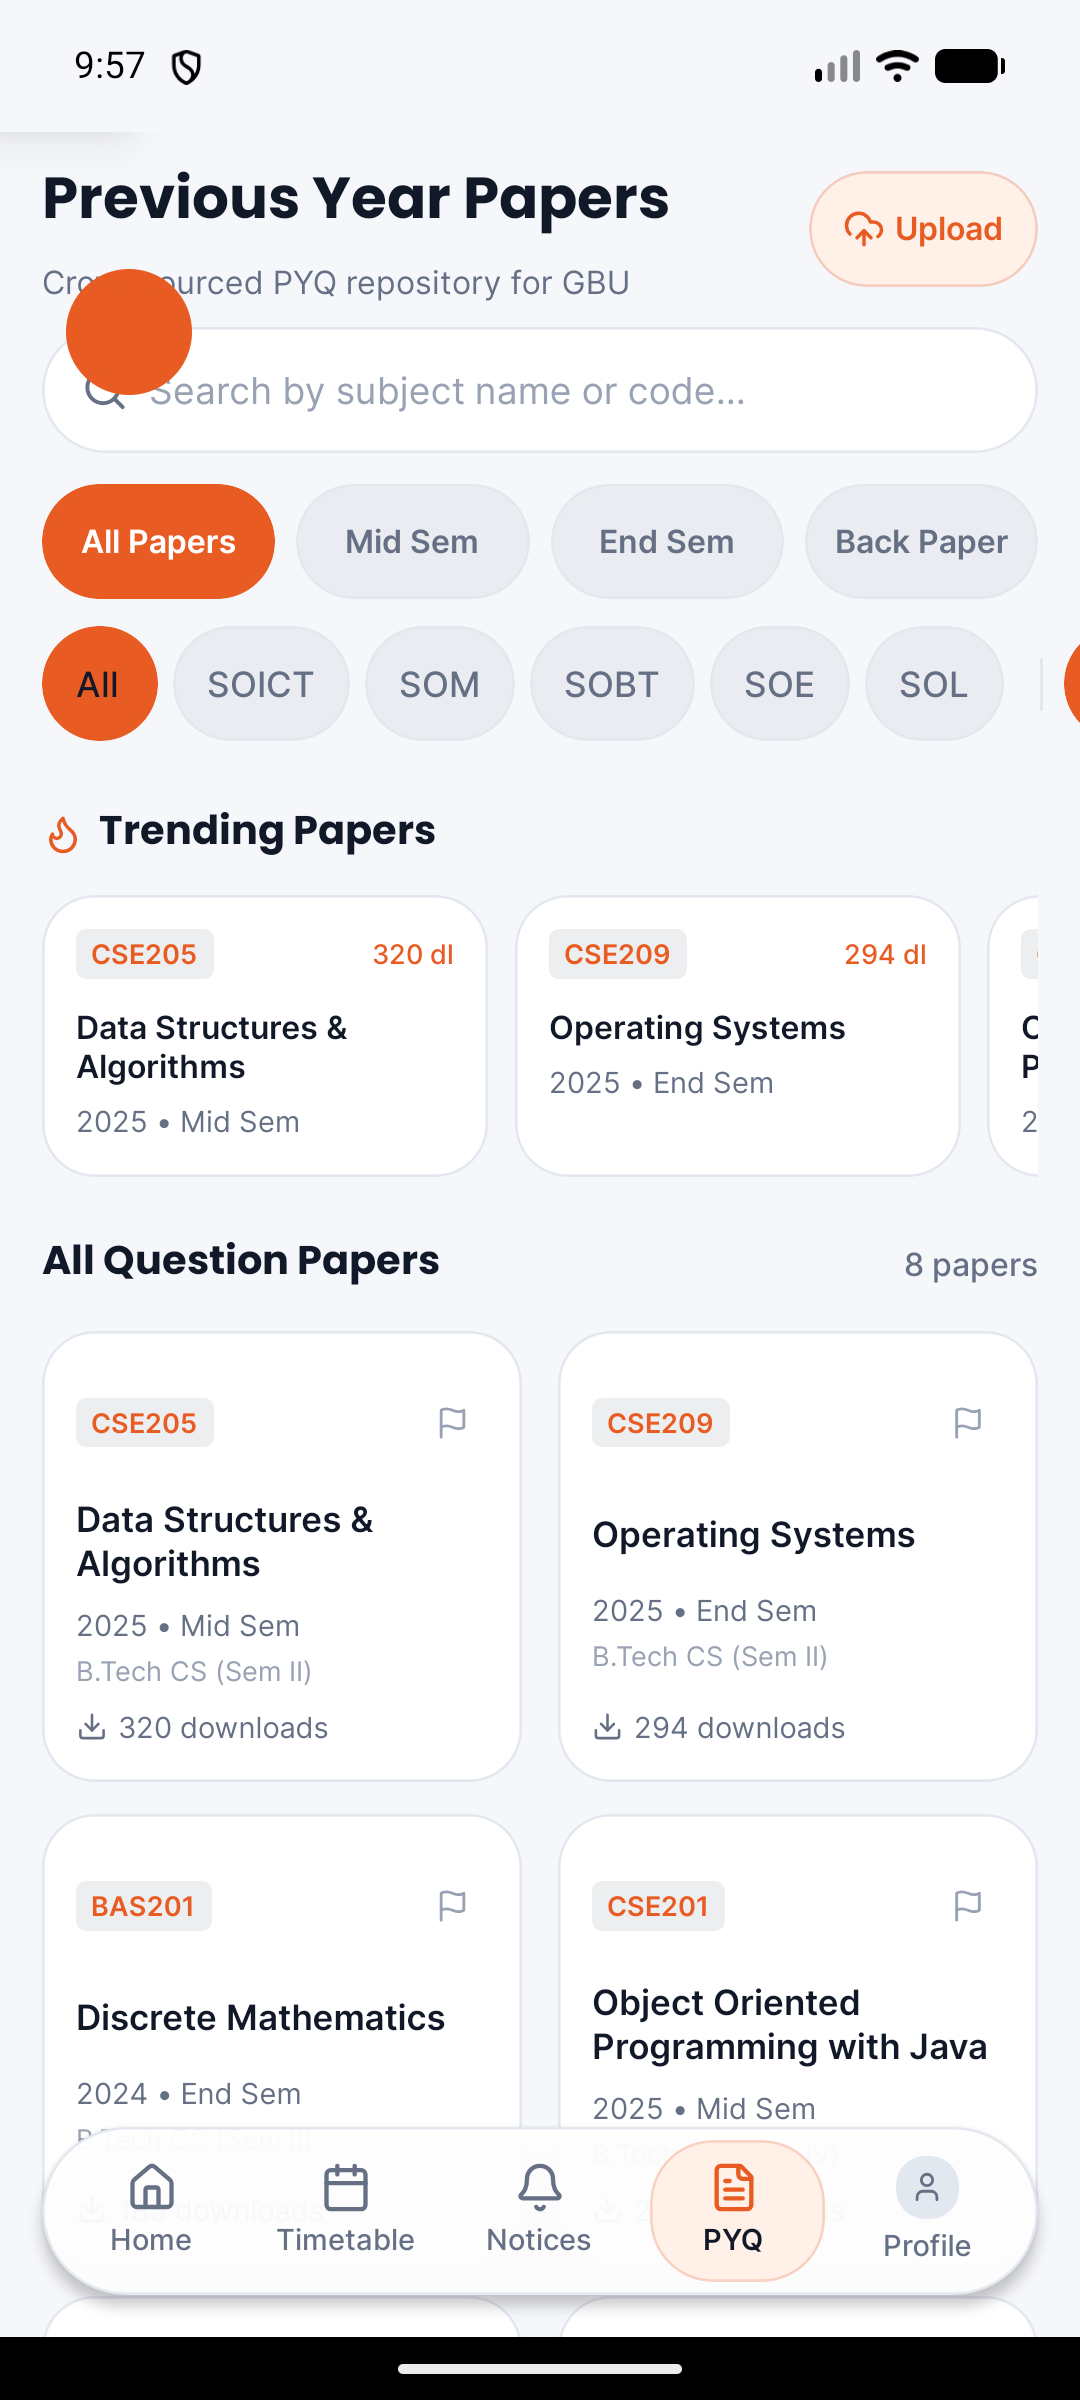
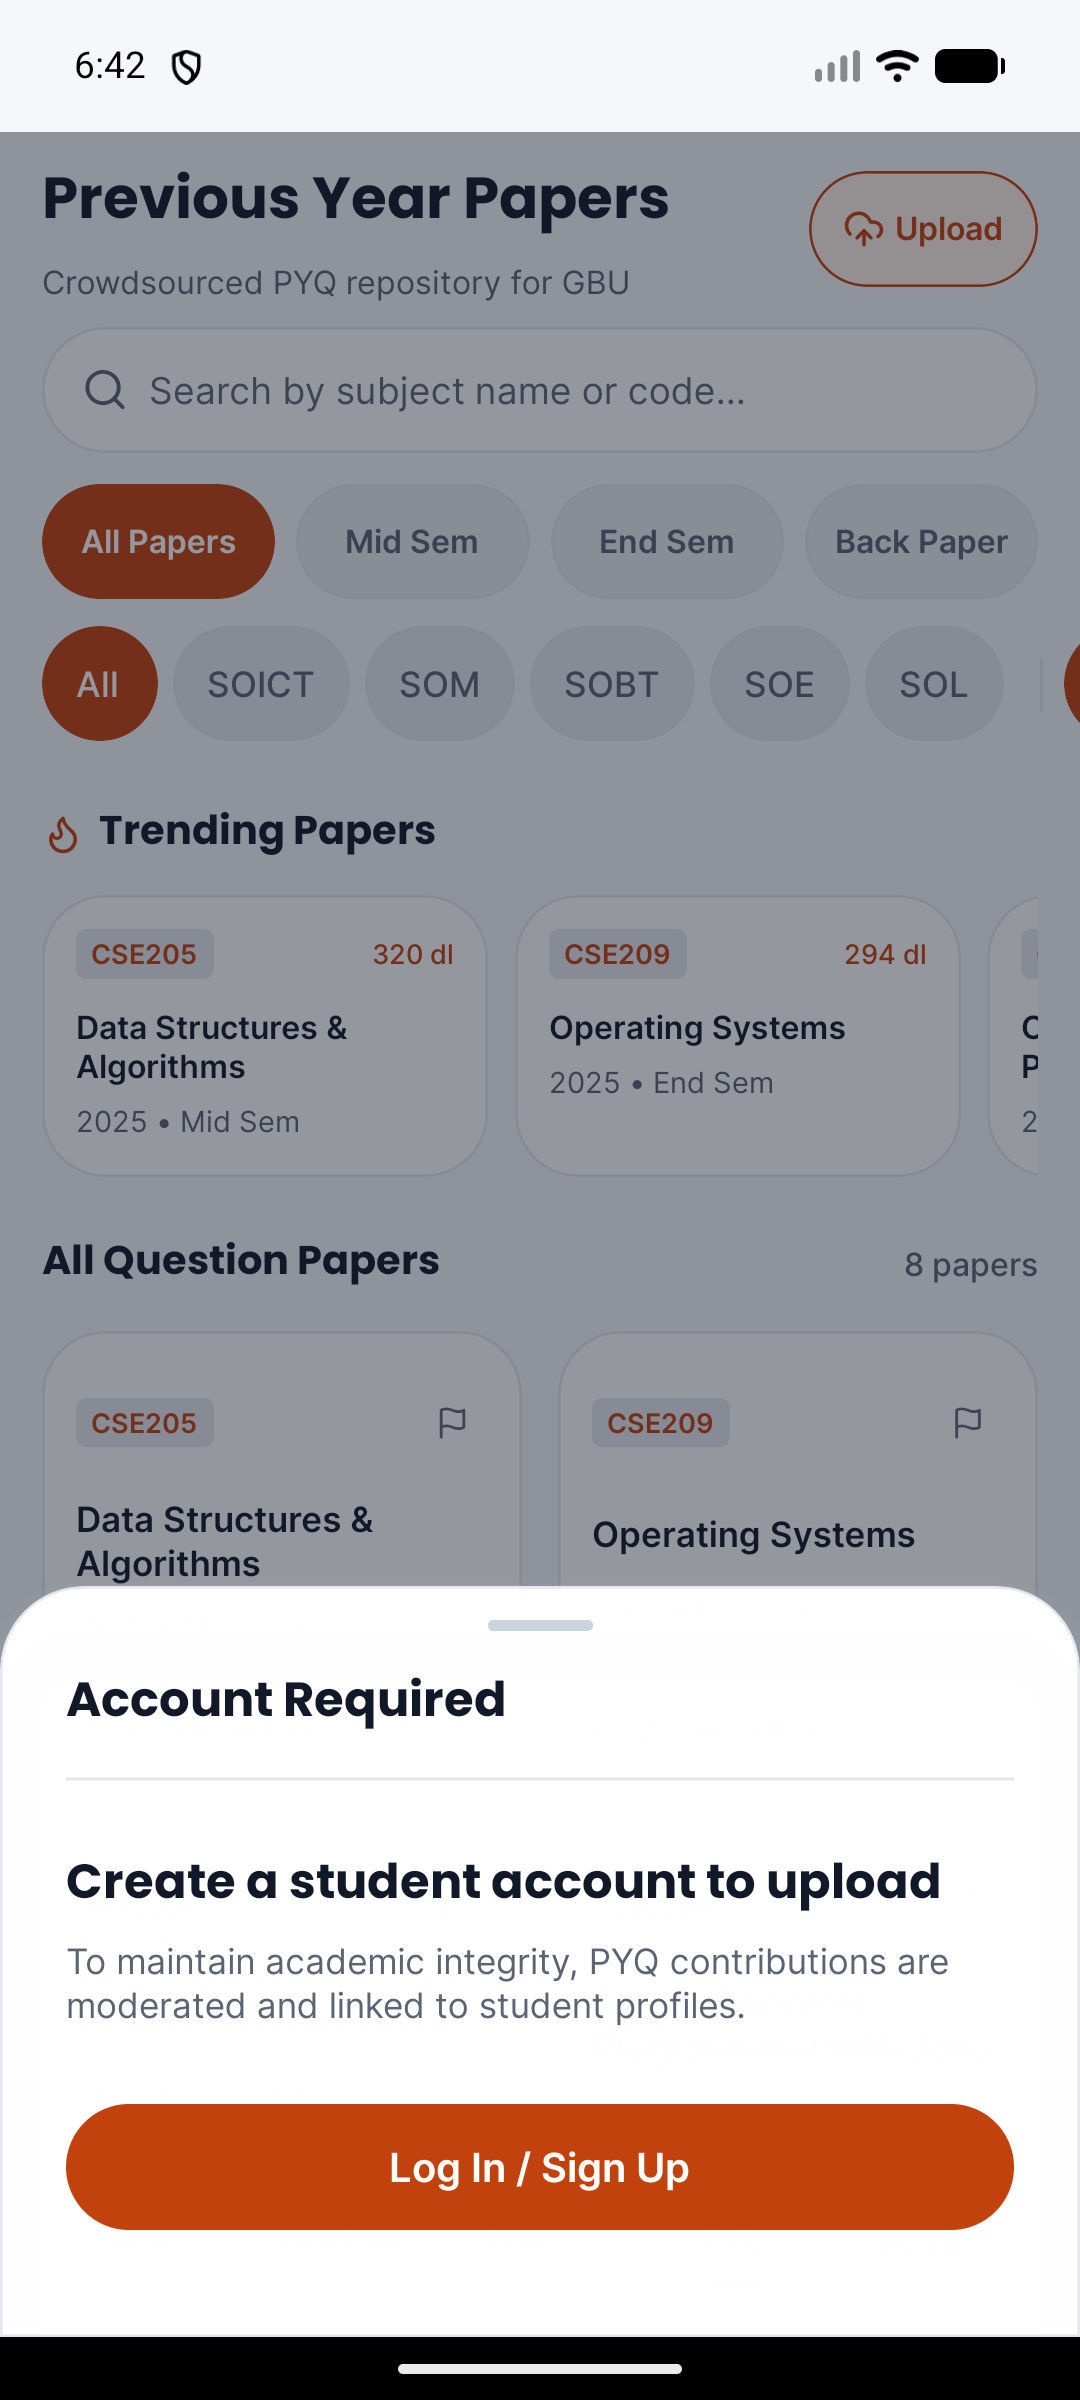
fix: let the shared sheets paint on Android
A React Native Modal on Android measures its content without constraints,
so a root overlay with flex: 1 resolves to 0x0: the dialog window exists,
is visible and has drawn, yet nothing reaches the screen.  The shared
BottomSheet and the timetable-change modal now size their overlays with
Dimensions.get('window') instead, the same fix the class sheet got in the
previous commit.

This was why the PYQ upload sheet, the guest gate and the notice sheet
looked broken.  tools/diagnose_modal.py measures the dim backdrop so a
regression shows up as a number rather than a screenshot.

diff --git a/src/components/timetable/TimetableChangeModal.tsx b/src/components/timetable/TimetableChangeModal.tsx
@@ -1,5 +1,5 @@
 import React from 'react';
-import { StyleSheet, View, Text, Modal, Pressable } from 'react-native';
+import { StyleSheet, View, Text, Modal, Pressable, Dimensions } from 'react-native';
 import Animated, {
   FadeIn,
   FadeOut,
@@ -10,6 +10,8 @@ import { Ionicons } from '@expo/vector-icons';
 import { router } from 'expo-router';
 import { useAppTheme } from '../../lib/ThemeContext';
 import { radius, spacing } from '../../lib/theme';
+
+const { width: SCREEN_WIDTH, height: SCREEN_HEIGHT } = Dimensions.get('window');
 
 export interface TimetableChangeModalProps {
   visible: boolean;
@@ -145,7 +147,11 @@ export const TimetableChangeModal: React.FC<TimetableChangeModalProps> = ({
 
 const styles = StyleSheet.create({
   backdrop: {
-    flex: 1,
+    // A React Native Modal on Android measures its content without
+    // constraints, so `flex: 1` resolves to zero and the card paints
+    // nothing. The backdrop therefore carries explicit window dimensions.
+    width: SCREEN_WIDTH,
+    height: SCREEN_HEIGHT,
     backgroundColor: 'rgba(0, 0, 0, 0.45)',
     justifyContent: 'center',
     alignItems: 'center',

diff --git a/src/components/ui/BottomSheet.tsx b/src/components/ui/BottomSheet.tsx
@@ -26,7 +26,7 @@ export interface BottomSheetProps {
   height?: number | string;
 }
 
-const { height: SCREEN_HEIGHT } = Dimensions.get('window');
+const { width: SCREEN_WIDTH, height: SCREEN_HEIGHT } = Dimensions.get('window');
 
 export const BottomSheet: React.FC<BottomSheetProps> = ({
   visible,
@@ -101,7 +101,11 @@ export const BottomSheet: React.FC<BottomSheetProps> = ({
 
 const styles = StyleSheet.create({
   overlay: {
-    flex: 1,
+    // A React Native Modal on Android measures its content without
+    // constraints, so `flex: 1` resolves to zero and the sheet paints
+    // nothing. The overlay therefore carries explicit window dimensions.
+    width: SCREEN_WIDTH,
+    height: SCREEN_HEIGHT,
     justifyContent: 'flex-end',
   },
   backdrop: {

diff --git a/tools/diagnose_modal.py b/tools/diagnose_modal.py
@@ -1,0 +1,162 @@
+"""
+Checks whether the app's modals actually reach the screen on Android.
+
+A transparent React Native Modal paints a dim backdrop over the whole window.
+If the modal is not composited on top, the mean brightness of the upper part
+of the screen stays at the un-dimmed level. This script measures that for the
+class detail sheet and the notice sheet and prints the window stack.
+
+    python tools/diagnose_modal.py
+"""
+import os
+import re
+import subprocess
+import time
+
+from PIL import Image
+
+SERIAL = os.environ.get('GBU_EMULATOR', 'emulator-5554')
+PACKAGE = 'in.gbu.one'
+HERE = os.path.dirname(os.path.abspath(__file__))
+OUT = os.path.join(HERE, '..', 'docs', 'qa', 'emulator')
+DUMP = os.path.join(HERE, '..', 'qa_ui.xml')
+
+
+def adb(*args):
+    return subprocess.run(['adb', '-s', SERIAL, *args], capture_output=True, text=True)
+
+
+def dump():
+    adb('shell', 'uiautomator', 'dump', '/sdcard/qa.xml')
+    adb('pull', '/sdcard/qa.xml', DUMP)
+    try:
+        with open(DUMP, encoding='utf-8') as f:
+            return f.read()
+    except OSError:
+        return ''
+
+
+def texts(xml):
+    return [m.group(1) for m in re.finditer(r'text="([^"]+)"', xml)]
+
+
+def find(xml, label, exact=False):
+    for m in re.finditer(
+        r'text="([^"]*)"[^>]*bounds="\[(\d+),(\d+)\]\[(\d+),(\d+)\]"', xml
+    ):
+        hit = m.group(1) == label if exact else label in m.group(1)
+        if hit:
+            x1, y1, x2, y2 = (int(m.group(i)) for i in range(2, 6))
+            return ((x1 + x2) // 2, (y1 + y2) // 2)
+    return None
+
+
+def tap_text(label, exact=False, settle=2.0, required=False):
+    pos = find(dump(), label, exact)
+    if pos is None:
+        if required:
+            print(f'  ! not found: {label}')
+        return False
+    adb('shell', 'input', 'tap', str(pos[0]), str(pos[1]))
+    time.sleep(settle)
+    return True
+
+
+def shot(name):
+    os.makedirs(OUT, exist_ok=True)
+    adb('shell', 'screencap', '-p', '/sdcard/qa.png')
+    path = os.path.join(OUT, f'{name}.png')
+    adb('pull', '/sdcard/qa.png', path)
+    return path
+
+
+def upper_brightness(path):
+    """Mean brightness of the upper half of the screen."""
+    im = Image.open(path).convert('L')
+    w, h = im.size
+    top = im.crop((0, 0, w, int(h * 0.5)))
+    pixels = list(top.getdata())
+    return sum(pixels) / len(pixels)
+
+
+def window_stack():
+    out = adb('shell', 'dumpsys', 'window', 'windows').stdout
+    rows = []
+    for block in out.split('Window #'):
+        if PACKAGE in block:
+            head = block.splitlines()[0].strip() if block.strip() else ''
+            m = re.search(r'Window\{[^}]*\}', block)
+            attrs = {
+                'name': (re.search(r'mSurface=(.*)', block) or [None, '?'])[1] if 'mSurface=' in block else '?',
+                'visible': 'mViewVisibility=0x0' in block or 'isVisible=true' in block,
+                'has_drawn': 'HAS_DRAWN' in block,
+                'frame': (re.search(r'Frames: parent=(\S+) display=(\S+) mCurrentFocus=(\S+)', block) or [None, '?'])[1]
+                if 'Frames:' in block else '?',
+            }
+            rows.append((m.group(0) if m else head[:60], attrs))
+    return rows
+
+
+def report(label, path):
+    b = upper_brightness(path)
+    dimmed = b < 180
+    print(f'  {label}: upper brightness {b:.0f} -> {"DIMMED (modal on top)" if dimmed else "NOT DIMMED"}')
+    return dimmed
+
+
+def main():
+    print('launching')
+    adb('shell', 'am', 'force-stop', PACKAGE)
+    adb('shell', 'monkey', '-p', PACKAGE, '-c', 'android.intent.category.LAUNCHER', '1')
+    time.sleep(12)
+
+    xml = dump()
+    pos = find(xml, "Don't Show Again")
+    if pos:
+        print('dismissing the 16 KB notice')
+        adb('shell', 'input', 'tap', str(pos[0]), str(pos[1]))
+        time.sleep(3)
+
+    print('timetable')
+    tap_text('Timetable', exact=True, settle=7.0)
+    base = shot('modal_baseline')
+    report('baseline', base)
+
+    xml = dump()
+    m = re.search(
+        r'text="(Scientific Computing with Python Lab|Data Structures Lab)"'
+        r'[^>]*bounds="\[(\d+),(\d+)\]\[(\d+),(\d+)\]"',
+        xml,
+    )
+    if m:
+        cx = (int(m.group(2)) + int(m.group(4))) // 2
+        cy = (int(m.group(3)) + int(m.group(5))) // 2
+        adb('shell', 'input', 'tap', str(cx), str(cy))
+        time.sleep(4)
+        p = shot('modal_class_sheet')
+        report('class sheet', p)
+        print('  window stack:')
+        for head, attrs in window_stack():
+            print('   ', head, attrs)
+    else:
+        print('  no class card found; screen text:', ' | '.join(texts(xml)[:20]))
+
+    print('notices')
+    adb('shell', 'input', 'keyevent', 'KEYCODE_BACK')
+    time.sleep(2)
+    tap_text('Notices', exact=True, settle=6.0)
+    xml = dump()
+    titles = [t for t in texts(xml) if len(t) > 25 and not t.startswith('http')]
+    if titles:
+        pos = find(xml, titles[0], exact=True)
+        if pos:
+            adb('shell', 'input', 'tap', str(pos[0]), str(pos[1]))
+            time.sleep(4)
+            p = shot('modal_notice_sheet')
+            report('notice sheet', p)
+    else:
+        print('  no notice card found')
+
+
+if __name__ == '__main__':
+    main()

diff --git a/docs/ARCHITECTURE.md b/docs/ARCHITECTURE.md
@@ -49,6 +49,7 @@ Timetable API (owner's) ◄── adapter, called from worker (public data) or a
 - **Classification:** rules first (keywords: fee, scholarship, date sheet, result, hostel, NCC, back paper, repeat, admit card, mid sem, convocation) then optional LLM fallback behind an env flag. Add unit tests with real notice titles.
 - **Deadline threads:** group notices by normalised subject (e.g. "fee submission monsoon 2026-27"); latest date wins; keep history list.
 - **Targeting:** each notice gets `audience` tags: school(s), programme(s), semester(s) when detectable, else `all`. Push goes only to matching users.
+- **Modals must carry explicit dimensions:** a React Native `Modal` on Android measures its content without constraints, so a root view with `flex: 1` resolves to 0x0 and the modal paints nothing (the dialog window exists, is visible and has drawn, yet the screen is unchanged). Every modal in this app therefore sizes its root overlay with `Dimensions.get('window')` instead of `flex: 1` — see `src/components/ui/BottomSheet.tsx`, `src/components/timetable/TimetableChangeModal.tsx` and the class sheet in `app/(tabs)/timetable.tsx`. `tools/diagnose_modal.py` measures the dim backdrop to catch a regression.
 
 ## Database (Supabase Postgres, RLS on)
 - `notices(id, source, source_id, title, clean_title, posted_at, file_url, file_type, raw_text, category, audience jsonb, importance int, deadline_at, thread_id, created_at)`
